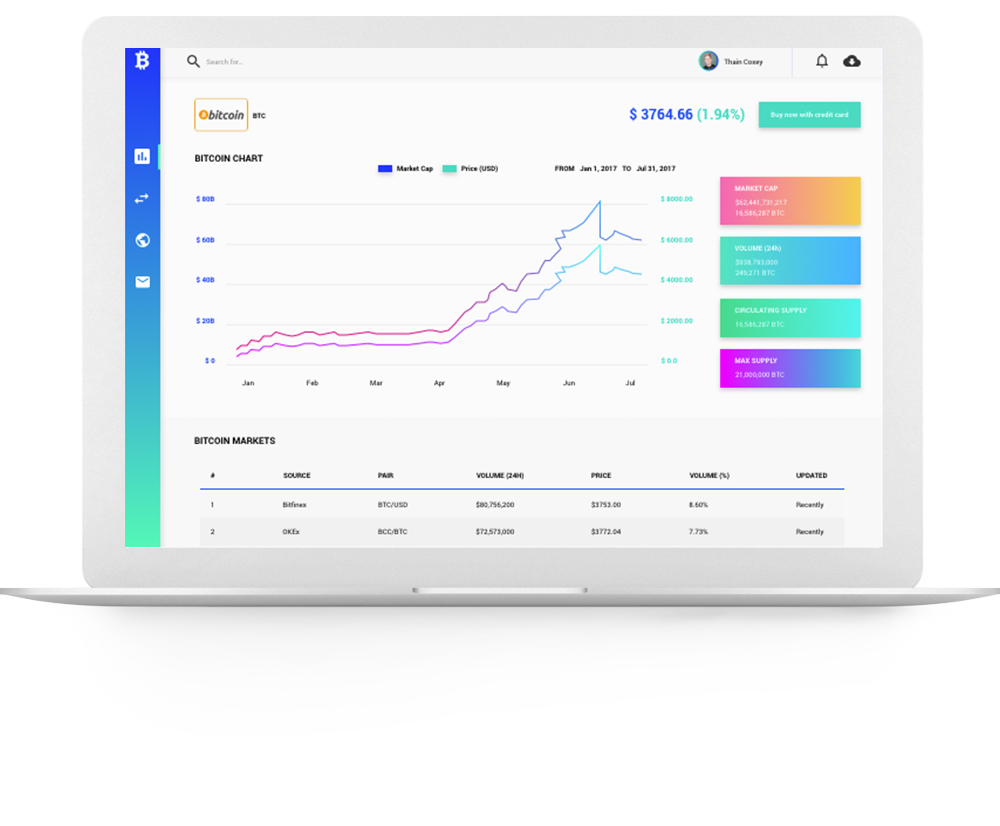
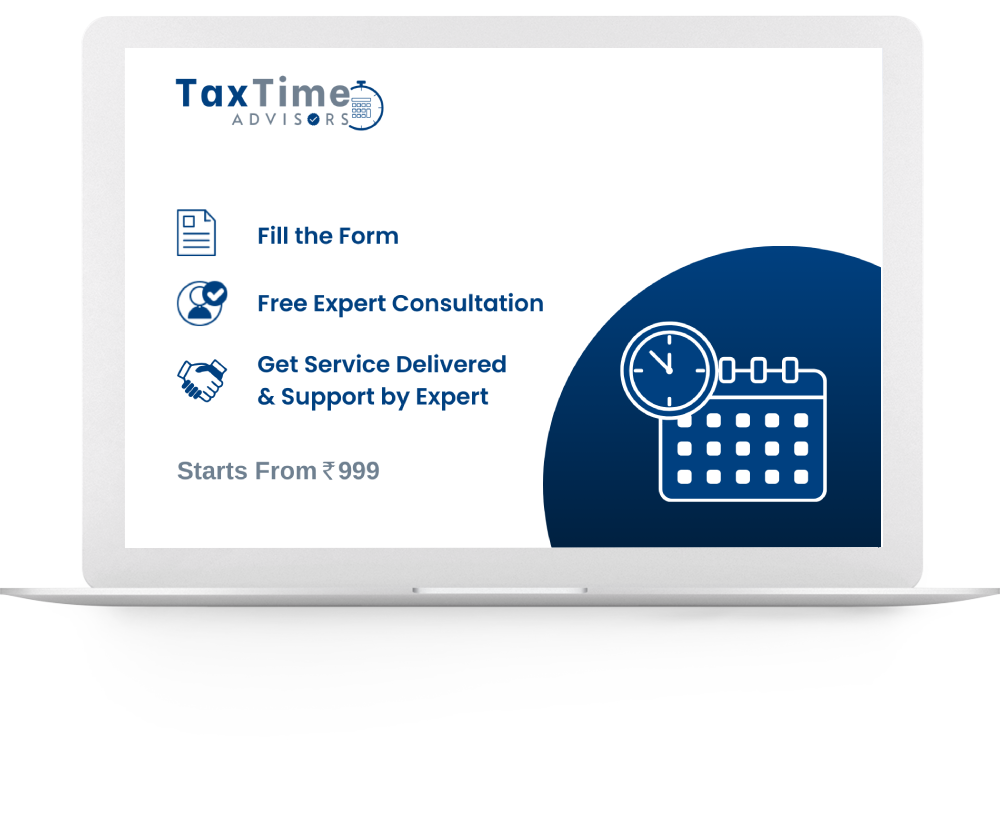
updated images and index file

diff --git a/index.html b/index.html
@@ -3,13 +3,13 @@
   <!-- Mirrored from preview.colorlib.com/theme/cryptocurrency/index.html by HTTrack Website Copier/3.x [XR&CO'2014], Sat, 11 May 2024 14:58:36 GMT -->
 
   <head>
-    <title>Cryptocurrency - Landing Page Template</title>
+    <title>TaxTime Advisors | Best ITR Filing Service in AP & TG</title>
     <meta charset="UTF-8" />
     <meta name="description" content="taxtime advisors" />
     <meta name="keywords" content="taxtime, taxtimeadvisors, taxfilings" />
     <meta name="viewport" content="width=device-width, initial-scale=1.0" />
 
-    <link href="img/favicon.ico" rel="shortcut icon" />
+    <link href="img/favicon.png" rel="shortcut icon" />
 
     <link
       href="https://fonts.googleapis.com/css?family=Lato"
@@ -479,12 +479,12 @@
           </svg>
         </a>
         <div class="responsive-bar"><i class="fa fa-bars"></i></div>
-        <a href class="site-btn">File ITR</a>
+        <a href="#contact" class="site-btn">File ITR</a>
         <nav class="main-menu">
           <ul class="menu-list">
             <li><a href="#services">Our Services</a></li>
-            <li><a href="#contact">Contact</a></li>
-            <li class="mob-btn"><a href class="#">File ITR</a></li>
+            <li><a href="#">Contact</a></li>
+            <li class="mob-btn"><a href="#contact" class="">File ITR</a></li>
           </ul>
         </nav>
       </div>
@@ -499,11 +499,12 @@
 
               with Expert ITR Filing Services!
             </h2>
-            <h4>Streamline Your Tax Process with Taxtime Advisors</h4>
+            <h4>Streamline Your Tax Process with Taxtime Advisors <br><span style="color:#004080;">Price Start From Rs.999/-</span></h4>
             <div class="hero-subscribe-from">
-              <button class="site-btn sb-gradients">
+              <a href="#contact" class="site-btn sb-gradients">Get Your Free Expert Consultation</a>
+              <!-- <button class="site-btn sb-gradients cta_btn_text">
                 Get Your Free Expert Consultation
-              </button>
+              </button> -->
             </div>
           </div>
           <div class="col-md-6">
@@ -546,7 +547,10 @@
         </div>
         <div class="row">
           <div class="col-md-6 col-lg-4 feature">
-            <i class="ti-mobile"></i>
+            <div class="itr_filing_logo">
+              <img src="/img/itr_filing.png" alt="itr filing icon">
+            </div>
+            <!-- <i class="ti-mobile"></i> -->
             <div class="feature-content">
               <h4>ITR Filing (1 to 4)</h4>
               <p>
@@ -554,7 +558,7 @@
                 mind, handled by seasoned professionals from top firms like EY,
                 Deloitte, PWC, and KPMG.
               </p>
-              <a href class="readmore">Readmore</a>
+
             </div>
           </div>
 
@@ -567,7 +571,7 @@
                 registration services, safeguarding your business from
                 infringement.
               </p>
-              <a href class="readmore">Readmore</a>
+              
             </div>
           </div>
 
@@ -580,7 +584,7 @@
                 registration services, safeguarding your business from
                 infringement.
               </p>
-              <a href class="readmore">Readmore</a>
+              
             </div>
           </div>
 
@@ -592,7 +596,7 @@
                 Ensure timely and accurate TDS return filing to avoid penalties
                 and maintain regulatory compliance effortlessly.
               </p>
-              <a href class="readmore">Readmore</a>
+              
             </div>
           </div>
 
@@ -605,7 +609,7 @@
                 through our efficient process, facilitating seamless
                 transactions and document signing.
               </p>
-              <a href class="readmore">Readmore</a>
+              
             </div>
           </div>
 
@@ -618,7 +622,7 @@
                 needs, providing clarity and control over your financial
                 operations.
               </p>
-              <a href class="readmore">Readmore</a>
+              
             </div>
           </div>
         </div>
@@ -721,14 +725,14 @@
         <div class="row">
           <div class="col-sm-6 col-md-6 col-lg-3">
             <div class="fact">
-              <h2>10+</h2>
+              <h2>3+</h2>
               <p class="mt-10">Services</p>
               <!-- <i class="ti-basketball"></i> -->
             </div>
           </div>
           <div class="col-sm-6 col-md-6 col-lg-3">
             <div class="fact">
-              <h2>100+</h2>
+              <h2>50+</h2>
               <p>Satisfied <br />Clients</p>
               <!-- <i class="ti-panel"></i> -->
             </div>
@@ -766,8 +770,9 @@
               <div class="member-text">
                 <div
                   class="member-img set-bg"
-                  data-setbg="img/member/1.jpg"
-                ></div>
+                >
+                <svg id="Layer_1" data-name="Layer 1" xmlns="http://www.w3.org/2000/svg" viewBox="0 0 28.07 28.08"><defs><style>.cls-1{fill:#004080;}</style></defs><path class="cls-1" d="M11.78,11.28A4.46,4.46,0,0,1,16,6.61a4.46,4.46,0,0,1,4.22,4.67A4.46,4.46,0,0,1,16,15.94,4.46,4.46,0,0,1,11.78,11.28ZM30,16a14,14,0,0,1-2.39,7.82,1.43,1.43,0,0,1-.14.2,14,14,0,0,1-23,0,1.43,1.43,0,0,1-.14-.2A14,14,0,1,1,30,16ZM3.46,16A12.58,12.58,0,0,0,5,22.09c2.17-2.85,6.33-4.63,11-4.63s8.8,1.78,11,4.63A12.54,12.54,0,1,0,3.46,16Z" transform="translate(-1.97 -1.96)"/></svg>
+              </div>
                 <h2>Vamsi at PWC</h2>
                 <span
                   >Meet Vamsi, a seasoned accounting professional with extensive
@@ -782,8 +787,8 @@
               <div class="member-text">
                 <div
                   class="member-img set-bg"
-                  data-setbg="img/member/1.jpg"
-                ></div>
+                ><svg id="Layer_1" data-name="Layer 1" xmlns="http://www.w3.org/2000/svg" viewBox="0 0 28.07 28.08"><defs><style>.cls-1{fill:#004080;}</style></defs><path class="cls-1" d="M11.78,11.28A4.46,4.46,0,0,1,16,6.61a4.46,4.46,0,0,1,4.22,4.67A4.46,4.46,0,0,1,16,15.94,4.46,4.46,0,0,1,11.78,11.28ZM30,16a14,14,0,0,1-2.39,7.82,1.43,1.43,0,0,1-.14.2,14,14,0,0,1-23,0,1.43,1.43,0,0,1-.14-.2A14,14,0,1,1,30,16ZM3.46,16A12.58,12.58,0,0,0,5,22.09c2.17-2.85,6.33-4.63,11-4.63s8.8,1.78,11,4.63A12.54,12.54,0,1,0,3.46,16Z" transform="translate(-1.97 -1.96)"/></svg>
+              </div>
                 <h2>Harsh at Deloitte</h2>
                 <span
                   >Say hello to Harsh, a skilled professional with a history at
@@ -798,8 +803,8 @@
               <div class="member-text">
                 <div
                   class="member-img set-bg"
-                  data-setbg="img/member/1.jpg"
-                ></div>
+                 ><svg id="Layer_1" data-name="Layer 1" xmlns="http://www.w3.org/2000/svg" viewBox="0 0 28.07 28.08"><defs><style>.cls-1{fill:#004080;}</style></defs><path class="cls-1" d="M11.78,11.28A4.46,4.46,0,0,1,16,6.61a4.46,4.46,0,0,1,4.22,4.67A4.46,4.46,0,0,1,16,15.94,4.46,4.46,0,0,1,11.78,11.28ZM30,16a14,14,0,0,1-2.39,7.82,1.43,1.43,0,0,1-.14.2,14,14,0,0,1-23,0,1.43,1.43,0,0,1-.14-.2A14,14,0,1,1,30,16ZM3.46,16A12.58,12.58,0,0,0,5,22.09c2.17-2.85,6.33-4.63,11-4.63s8.8,1.78,11,4.63A12.54,12.54,0,1,0,3.46,16Z" transform="translate(-1.97 -1.96)"/></svg>
+                </div>
                 <h2>Aparna at Goldman Sachs</h2>
                 <span
                   >Meet your expert Aparna, a Chartered Accountant working at
@@ -816,7 +821,7 @@
     <section class="review-section spad spad-custom">
       <div class="container">
         <div class="section-title text-center">
-          <h2>Testimonials</h2>
+          <h2>Client Feedback</h2>
         </div>
         <div class="row">
           <div class="col-lg-8 push-8">
@@ -848,28 +853,30 @@
               <div class="author-meta">
                 <div
                   class="author-avatar set-bg"
-                  data-setbg="img/review/1.jpg"
-                ></div>
+                
+                >
+                <svg id="Layer_1" data-name="Layer 1" xmlns="http://www.w3.org/2000/svg" viewBox="0 0 28.07 28.08"><defs><style>.cls-1{fill:#004080;}</style></defs><path class="cls-1" d="M11.78,11.28A4.46,4.46,0,0,1,16,6.61a4.46,4.46,0,0,1,4.22,4.67A4.46,4.46,0,0,1,16,15.94,4.46,4.46,0,0,1,11.78,11.28ZM30,16a14,14,0,0,1-2.39,7.82,1.43,1.43,0,0,1-.14.2,14,14,0,0,1-23,0,1.43,1.43,0,0,1-.14-.2A14,14,0,1,1,30,16ZM3.46,16A12.58,12.58,0,0,0,5,22.09c2.17-2.85,6.33-4.63,11-4.63s8.8,1.78,11,4.63A12.54,12.54,0,1,0,3.46,16Z" transform="translate(-1.97 -1.96)"/></svg></div>
                 <div class="author-name">
                   <h4>Branch Manager</h4>
-                  <p>Union Bank of India</p>
+                  <p>Govt. Bank</p>
                 </div>
               </div>
               <div class="author-meta">
                 <div
                   class="author-avatar set-bg"
-                  data-setbg="img/review/2.jpg"
-                ></div>
+                ><svg id="Layer_1" data-name="Layer 1" xmlns="http://www.w3.org/2000/svg" viewBox="0 0 28.07 28.08"><defs><style>.cls-1{fill:#004080;}</style></defs><path class="cls-1" d="M11.78,11.28A4.46,4.46,0,0,1,16,6.61a4.46,4.46,0,0,1,4.22,4.67A4.46,4.46,0,0,1,16,15.94,4.46,4.46,0,0,1,11.78,11.28ZM30,16a14,14,0,0,1-2.39,7.82,1.43,1.43,0,0,1-.14.2,14,14,0,0,1-23,0,1.43,1.43,0,0,1-.14-.2A14,14,0,1,1,30,16ZM3.46,16A12.58,12.58,0,0,0,5,22.09c2.17-2.85,6.33-4.63,11-4.63s8.8,1.78,11,4.63A12.54,12.54,0,1,0,3.46,16Z" transform="translate(-1.97 -1.96)"/></svg></div>
                 <div class="author-name">
                   <h4>Software Engineer</h4>
-                  <p>TCS</p>
+                  <p>Big IT Company</p>
                 </div>
               </div>
               <div class="author-meta">
                 <div
                   class="author-avatar set-bg"
-                  data-setbg="img/review/3.jpg"
-                ></div>
+                  
+                >
+                <svg id="Layer_1" data-name="Layer 1" xmlns="http://www.w3.org/2000/svg" viewBox="0 0 28.07 28.08"><defs><style>.cls-1{fill:#004080;}</style></defs><path class="cls-1" d="M11.78,11.28A4.46,4.46,0,0,1,16,6.61a4.46,4.46,0,0,1,4.22,4.67A4.46,4.46,0,0,1,16,15.94,4.46,4.46,0,0,1,11.78,11.28ZM30,16a14,14,0,0,1-2.39,7.82,1.43,1.43,0,0,1-.14.2,14,14,0,0,1-23,0,1.43,1.43,0,0,1-.14-.2A14,14,0,1,1,30,16ZM3.46,16A12.58,12.58,0,0,0,5,22.09c2.17-2.85,6.33-4.63,11-4.63s8.8,1.78,11,4.63A12.54,12.54,0,1,0,3.46,16Z" transform="translate(-1.97 -1.96)"/></svg>
+              </div>
                 <div class="author-name">
                   <h4>Business Owner</h4>
                   <p>Clothing Store</p>
@@ -884,15 +891,15 @@
     <section class="form-section spad">
       <div class="container">
         <div class="section-title text-center">
-          <h2 id="contact">Contact us</h2>
+          <!-- <h2 id="contact">Contact us</h2> -->
         </div>
         <div class="row">
           <div class="col-lg-12">
             <!-- <span class="big-circle"></span> -->
-            <div class="form">
+            <div class="form" id="contact">
               <div class="contact-info">
-                <h2 class="">Get Your Free Consultation with Our Expert!</h2>
-                <p class="text">
+                <h2 class="form_hookline">Get Your Free Consultation with Our Expert!</h2>
+                <p class="form_sub_txt">
                   Please fill the form to connect with our expert and schedule
                   your free consultation and service required
                 </p>
@@ -971,7 +978,7 @@
             </p>
           </div>
           <div class="col-lg-4 col-md-8 offset-lg-0 offset-md-2">
-            <a href="#" class="site-btn sb-gradients sbg-line mt-3"
+            <a href="https://www.instagram.com/taxtimeadvisors/" target="_blank" class="site-btn sb-gradients sbg-line mt-3 follow_us_btn_text" 
               >Follow us</a
             >
           </div>
@@ -1025,7 +1032,7 @@
             </span>
             <p>
               made with <i class="fa fa-heart-o" aria-hidden="true"></i> by
-              <a href="#" target="_blank">Infage Media</a>
+              <a href="https://www.instagram.com/infagemedia/"  target="_blank">Infage Media</a>
             </p>
           </div>
           <div class="col-md-6 col-lg-2 offset-lg-1 footer-widget">
